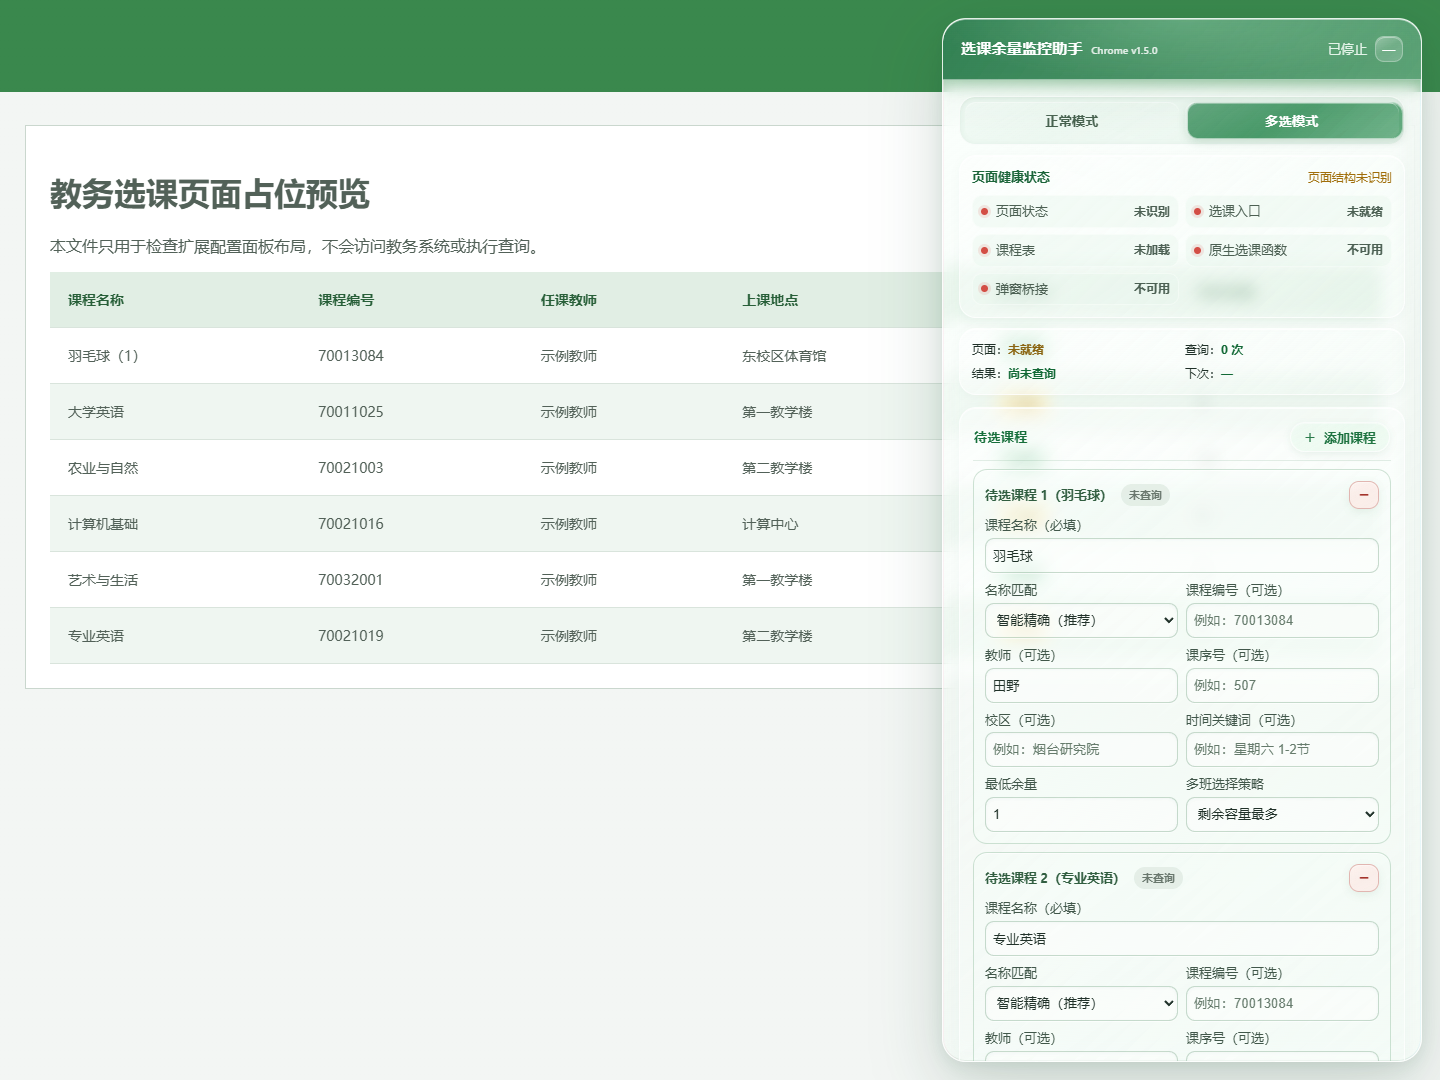
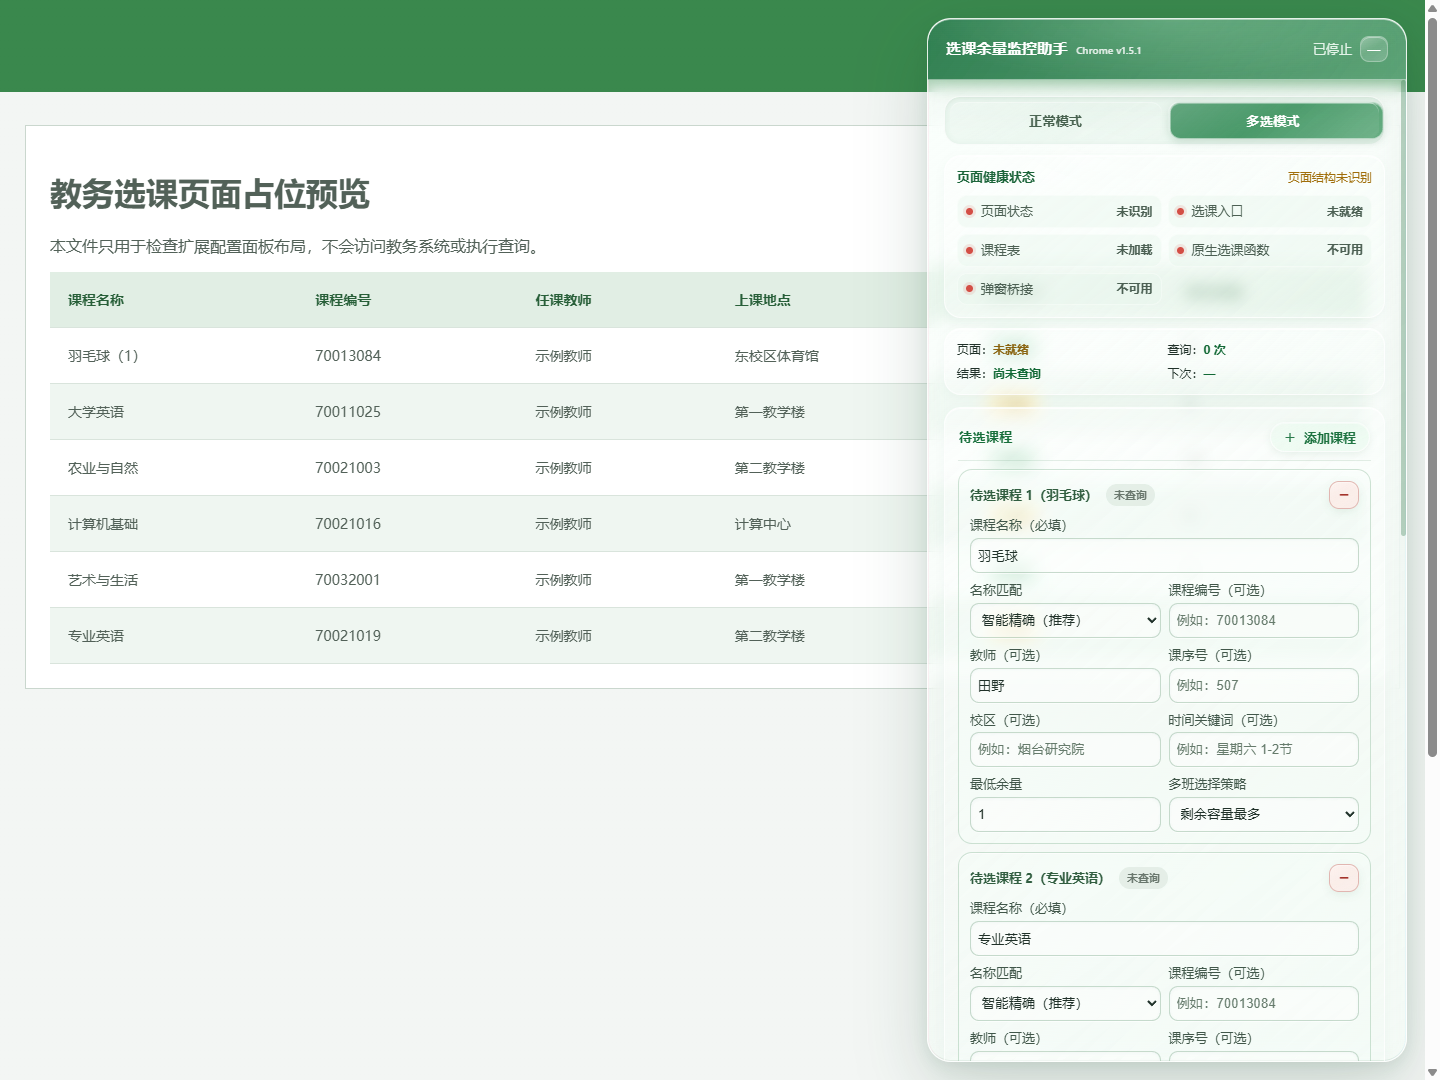
fix: keep panel scrollbar below the glass header v1.5.1

diff --git a/userscript/cau-course-watcher.user.js b/userscript/cau-course-watcher.user.js
@@ -1,7 +1,7 @@
 // ==UserScript==
 // @name         中国农业大学教务选课余量监控助手
 // @namespace    local.cau.course-watcher
-// @version      1.5.0
+// @version      1.5.1
 // @description  支持单课程或最多四门课程轮询，发现余量后使用页面原生流程选课。
 // @author       apshiap05
 // @license      Apache-2.0
@@ -452,12 +452,11 @@
   animation: cau-glass-arrive .55s cubic-bezier(.2,.75,.25,1) both;
 }
 #cau-course-watcher-panel {
-  width: 480px; scrollbar-width: thin; scrollbar-color: rgba(46,119,71,.32) transparent;
-  color: #203129; overscroll-behavior: contain; scroll-padding-top: 76px;
+  display: flex; flex-direction: column; overflow: hidden;
+  width: 480px; color: #203129;
 }
-#cau-course-watcher-panel::-webkit-scrollbar { width: 5px; }
-#cau-course-watcher-panel::-webkit-scrollbar-thumb { background: rgba(46,119,71,.32); border-radius: 9px; }
 #cau-course-watcher-panel .cau-cw-header {
+  position: relative; top: auto; flex-shrink: 0;
   padding: 17px 18px; border-radius: 23px 23px 0 0;
   background: radial-gradient(ellipse at var(--glass-x) 0, rgba(207,255,217,.2), transparent 75%),
     linear-gradient(125deg, rgba(31,116,67,.9), rgba(52,138,85,.7));
@@ -467,7 +466,17 @@
 }
 #cau-course-watcher-panel .cau-cw-title { letter-spacing: .015em; }
 #cau-course-watcher-panel .cau-cw-title small { font-size: 10px; font-weight: 500; opacity: .85; }
-#cau-course-watcher-panel .cau-cw-body { padding: 16px; }
+#cau-course-watcher-panel .cau-cw-body {
+  min-height: 0; overflow-x: hidden; overflow-y: auto; padding: 16px;
+  overscroll-behavior: contain; scroll-padding-top: 16px;
+  scrollbar-width: thin; scrollbar-color: rgba(46,119,71,.32) transparent;
+}
+#cau-course-watcher-panel .cau-cw-body::-webkit-scrollbar { width: 5px; }
+#cau-course-watcher-panel .cau-cw-body::-webkit-scrollbar-thumb { background: rgba(46,119,71,.32); border-radius: 9px; }
+#cau-course-watcher-panel .cau-cw-body::-webkit-scrollbar-button { display: none; height: 0; }
+@supports selector(::-webkit-scrollbar) {
+  #cau-course-watcher-panel .cau-cw-body { scrollbar-width: auto; scrollbar-color: auto; }
+}
 #cau-course-watcher-panel .cau-cw-tabs {
   position: relative; isolation: isolate; gap: 6px; padding: 5px; border-radius: 16px;
   background: rgba(213,235,220,.35); border: 1px solid rgba(255,255,255,.7);
@@ -586,7 +595,7 @@
 @keyframes cau-glass-toast { from { opacity: 0; translate: 0 -8px; } to { opacity: 1; translate: 0 0; } }
 @keyframes cau-glass-ripple { to { transform: scale(24); opacity: 0; } }
 @media (max-width: 720px) {
-  #cau-course-watcher-panel { width: calc(100vw - 16px); border-radius: 20px; }
+  #cau-course-watcher-panel { left: 8px; right: 8px; width: auto; border-radius: 20px; }
   #cau-course-watcher-panel .cau-cw-header { padding: 13px; border-radius: 19px 19px 0 0; }
   #cau-course-watcher-panel .cau-cw-body { padding: 10px; }
   #cau-course-watcher-panel .cau-cw-title { font-size: 13px; }
@@ -851,7 +860,7 @@
     panel.id = `${SCRIPT_ID}-panel`;
     panel.innerHTML = `
       <div class="cau-cw-header">
-        <div class="cau-cw-title">选课余量监控助手 <small>v1.5.0</small></div>
+        <div class="cau-cw-title">选课余量监控助手 <small>v1.5.1</small></div>
         <span id="cau-cw-run-state" class="cau-cw-paused">已停止</span>
         <button id="cau-cw-collapse" class="cau-cw-icon-btn" title="收起/展开">—</button>
       </div>

diff --git a/chrome-extension/content.js b/chrome-extension/content.js
@@ -462,12 +462,11 @@
   animation: cau-glass-arrive .55s cubic-bezier(.2,.75,.25,1) both;
 }
 #cau-course-watcher-panel {
-  width: 480px; scrollbar-width: thin; scrollbar-color: rgba(46,119,71,.32) transparent;
-  color: #203129; overscroll-behavior: contain; scroll-padding-top: 76px;
+  display: flex; flex-direction: column; overflow: hidden;
+  width: 480px; color: #203129;
 }
-#cau-course-watcher-panel::-webkit-scrollbar { width: 5px; }
-#cau-course-watcher-panel::-webkit-scrollbar-thumb { background: rgba(46,119,71,.32); border-radius: 9px; }
 #cau-course-watcher-panel .cau-cw-header {
+  position: relative; top: auto; flex-shrink: 0;
   padding: 17px 18px; border-radius: 23px 23px 0 0;
   background: radial-gradient(ellipse at var(--glass-x) 0, rgba(207,255,217,.2), transparent 75%),
     linear-gradient(125deg, rgba(31,116,67,.9), rgba(52,138,85,.7));
@@ -477,7 +476,17 @@
 }
 #cau-course-watcher-panel .cau-cw-title { letter-spacing: .015em; }
 #cau-course-watcher-panel .cau-cw-title small { font-size: 10px; font-weight: 500; opacity: .85; }
-#cau-course-watcher-panel .cau-cw-body { padding: 16px; }
+#cau-course-watcher-panel .cau-cw-body {
+  min-height: 0; overflow-x: hidden; overflow-y: auto; padding: 16px;
+  overscroll-behavior: contain; scroll-padding-top: 16px;
+  scrollbar-width: thin; scrollbar-color: rgba(46,119,71,.32) transparent;
+}
+#cau-course-watcher-panel .cau-cw-body::-webkit-scrollbar { width: 5px; }
+#cau-course-watcher-panel .cau-cw-body::-webkit-scrollbar-thumb { background: rgba(46,119,71,.32); border-radius: 9px; }
+#cau-course-watcher-panel .cau-cw-body::-webkit-scrollbar-button { display: none; height: 0; }
+@supports selector(::-webkit-scrollbar) {
+  #cau-course-watcher-panel .cau-cw-body { scrollbar-width: auto; scrollbar-color: auto; }
+}
 #cau-course-watcher-panel .cau-cw-tabs {
   position: relative; isolation: isolate; gap: 6px; padding: 5px; border-radius: 16px;
   background: rgba(213,235,220,.35); border: 1px solid rgba(255,255,255,.7);
@@ -596,7 +605,7 @@
 @keyframes cau-glass-toast { from { opacity: 0; translate: 0 -8px; } to { opacity: 1; translate: 0 0; } }
 @keyframes cau-glass-ripple { to { transform: scale(24); opacity: 0; } }
 @media (max-width: 720px) {
-  #cau-course-watcher-panel { width: calc(100vw - 16px); border-radius: 20px; }
+  #cau-course-watcher-panel { left: 8px; right: 8px; width: auto; border-radius: 20px; }
   #cau-course-watcher-panel .cau-cw-header { padding: 13px; border-radius: 19px 19px 0 0; }
   #cau-course-watcher-panel .cau-cw-body { padding: 10px; }
   #cau-course-watcher-panel .cau-cw-title { font-size: 13px; }
@@ -861,7 +870,7 @@
     panel.id = `${SCRIPT_ID}-panel`;
     panel.innerHTML = `
       <div class="cau-cw-header">
-        <div class="cau-cw-title">选课余量监控助手 <small>Chrome v1.5.0</small></div>
+        <div class="cau-cw-title">选课余量监控助手 <small>Chrome v1.5.1</small></div>
         <span id="cau-cw-run-state" class="cau-cw-paused">已停止</span>
         <button id="cau-cw-collapse" class="cau-cw-icon-btn" title="收起/展开">—</button>
       </div>

diff --git a/ui/liquid-glass.css b/ui/liquid-glass.css
@@ -15,12 +15,11 @@
   animation: cau-glass-arrive .55s cubic-bezier(.2,.75,.25,1) both;
 }
 #cau-course-watcher-panel {
-  width: 480px; scrollbar-width: thin; scrollbar-color: rgba(46,119,71,.32) transparent;
-  color: #203129; overscroll-behavior: contain; scroll-padding-top: 76px;
+  display: flex; flex-direction: column; overflow: hidden;
+  width: 480px; color: #203129;
 }
-#cau-course-watcher-panel::-webkit-scrollbar { width: 5px; }
-#cau-course-watcher-panel::-webkit-scrollbar-thumb { background: rgba(46,119,71,.32); border-radius: 9px; }
 #cau-course-watcher-panel .cau-cw-header {
+  position: relative; top: auto; flex-shrink: 0;
   padding: 17px 18px; border-radius: 23px 23px 0 0;
   background: radial-gradient(ellipse at var(--glass-x) 0, rgba(207,255,217,.2), transparent 75%),
     linear-gradient(125deg, rgba(31,116,67,.9), rgba(52,138,85,.7));
@@ -30,7 +29,17 @@
 }
 #cau-course-watcher-panel .cau-cw-title { letter-spacing: .015em; }
 #cau-course-watcher-panel .cau-cw-title small { font-size: 10px; font-weight: 500; opacity: .85; }
-#cau-course-watcher-panel .cau-cw-body { padding: 16px; }
+#cau-course-watcher-panel .cau-cw-body {
+  min-height: 0; overflow-x: hidden; overflow-y: auto; padding: 16px;
+  overscroll-behavior: contain; scroll-padding-top: 16px;
+  scrollbar-width: thin; scrollbar-color: rgba(46,119,71,.32) transparent;
+}
+#cau-course-watcher-panel .cau-cw-body::-webkit-scrollbar { width: 5px; }
+#cau-course-watcher-panel .cau-cw-body::-webkit-scrollbar-thumb { background: rgba(46,119,71,.32); border-radius: 9px; }
+#cau-course-watcher-panel .cau-cw-body::-webkit-scrollbar-button { display: none; height: 0; }
+@supports selector(::-webkit-scrollbar) {
+  #cau-course-watcher-panel .cau-cw-body { scrollbar-width: auto; scrollbar-color: auto; }
+}
 #cau-course-watcher-panel .cau-cw-tabs {
   position: relative; isolation: isolate; gap: 6px; padding: 5px; border-radius: 16px;
   background: rgba(213,235,220,.35); border: 1px solid rgba(255,255,255,.7);
@@ -149,7 +158,7 @@
 @keyframes cau-glass-toast { from { opacity: 0; translate: 0 -8px; } to { opacity: 1; translate: 0 0; } }
 @keyframes cau-glass-ripple { to { transform: scale(24); opacity: 0; } }
 @media (max-width: 720px) {
-  #cau-course-watcher-panel { width: calc(100vw - 16px); border-radius: 20px; }
+  #cau-course-watcher-panel { left: 8px; right: 8px; width: auto; border-radius: 20px; }
   #cau-course-watcher-panel .cau-cw-header { padding: 13px; border-radius: 19px 19px 0 0; }
   #cau-course-watcher-panel .cau-cw-body { padding: 10px; }
   #cau-course-watcher-panel .cau-cw-title { font-size: 13px; }

diff --git a/chrome-extension/popup.html b/chrome-extension/popup.html
@@ -11,7 +11,7 @@
       <div class="badge">CAU</div>
       <div>
         <h1>选课余量监控助手</h1>
-        <p class="version">Chrome 扩展 v1.5.0</p>
+        <p class="version">Chrome 扩展 v1.5.1</p>
       </div>
       <p>请先正常登录教务系统，再进入任意选课页面。配置面板会自动识别页面状态并显示在右侧。</p>
       <button id="open-page" type="button">打开教务选课页面</button>

diff --git a/README.md b/README.md
@@ -16,14 +16,14 @@
 
 | 版本 | 适合场景 |
 | --- | --- |
-| Chrome 扩展 v1.5.0 | 只使用 Google Chrome，希望不依赖 Tampermonkey |
-| Tampermonkey 脚本 v1.5.0 | 使用 Chrome、Edge、Firefox，或已经安装 Tampermonkey |
+| Chrome 扩展 v1.5.1 | 只使用 Google Chrome，希望不依赖 Tampermonkey |
+| Tampermonkey 脚本 v1.5.1 | 使用 Chrome、Edge、Firefox，或已经安装 Tampermonkey |
 
 两个版本具备相同的核心能力。
 
 
 
-## 液态玻璃界面（v1.5.0）
+## 液态玻璃界面（v1.5.1）
 
 配置面板、课程卡片、输入控件、确认窗和提示采用统一的液态玻璃材质，保留绿色主色、黄色授权区与红色停止按钮。网页内面板可透出背后的真实教务页面，Chrome/Edge 提供轻量边缘折射，其他浏览器使用透明毛玻璃。鼠标移动带动反光，按钮提供轻微磁吸、按压和涟漪，模式切换使用弹性滑动。支持系统“减少动态效果”和“减少透明度”设置；触屏保留常规点击。
 
@@ -48,7 +48,7 @@
 
 ### Google Chrome 扩展
 
-使用“加载已解压的扩展程序”，或从 [最新 Release](https://github.com/apshiap05/cau_course_watcher/releases/latest) 下载与当前版本对应的压缩包。下载后请确认 `manifest.json` 的版本为 `1.5.0`；旧 Release 不会自动包含 `main` 分支的后续更新。
+使用“加载已解压的扩展程序”，或从 [最新 Release](https://github.com/apshiap05/cau_course_watcher/releases/latest) 下载与当前版本对应的压缩包。下载后请确认 `manifest.json` 的版本为 `1.5.1`；旧 Release 不会自动包含 `main` 分支的后续更新。
 
 ### Tampermonkey 脚本
 

diff --git a/userscript/README.md b/userscript/README.md
@@ -3,7 +3,7 @@
 文件：[`cau-course-watcher.user.js`](./cau-course-watcher.user.js)
 
 
-## 液态玻璃界面（v1.5.0）
+## 液态玻璃界面（v1.5.1）
 
 配置面板、课程卡片、输入控件、确认窗和提示采用统一的液态玻璃材质，保留绿色主色、黄色授权区与红色停止按钮。网页内面板可透出背后的真实教务页面，Chrome/Edge 提供轻量边缘折射，其他浏览器使用透明毛玻璃。鼠标移动带动反光，按钮提供轻微磁吸、按压和涟漪，模式切换使用弹性滑动。支持系统“减少动态效果”和“减少透明度”设置；触屏保留常规点击。
 
@@ -13,7 +13,7 @@
 2. 打开 [Raw 脚本地址](https://raw.githubusercontent.com/apshiap05/cau_course_watcher/main/userscript/cau-course-watcher.user.js)。如果 Tampermonkey 显示安装页，检查脚本名称和匹配域名后安装。
 3. 如果浏览器只显示源码，就复制全部内容，在 Tampermonkey 中选择“添加新脚本”，替换示例内容并保存。
 4. 登录中国农业大学教务系统，进入选课页面并刷新。
-5. 页面右侧应显示“选课余量监控助手 v1.5.0”。脚本匹配 `/jsxsd/xsxk` 本身及其下任意路径，不依赖固定选课批次参数。
+5. 页面右侧应显示“选课余量监控助手 v1.5.1”。脚本匹配 `/jsxsd/xsxk` 本身及其下任意路径，不依赖固定选课批次参数。
 
 更新时可以重新打开 Raw 地址；脚本元数据也包含同一地址作为 `@updateURL` 和 `@downloadURL`。
 

diff --git a/chrome-extension/README.md b/chrome-extension/README.md
@@ -3,7 +3,7 @@
 这是一个仅作用于 `https://newjw.cau.edu.cn` 指定选课页面的 Manifest V3 扩展。它不会保存账号、密码或 Cookie，只会在 Chrome 扩展存储中保存课程监控配置。
 
 
-## 液态玻璃界面（v1.5.0）
+## 液态玻璃界面（v1.5.1）
 
 配置面板、课程卡片、输入控件、确认窗和提示采用统一的液态玻璃材质，保留绿色主色、黄色授权区与红色停止按钮。网页内面板可透出背后的真实教务页面，Chrome/Edge 提供轻量边缘折射，其他浏览器使用透明毛玻璃。鼠标移动带动反光，按钮提供轻微磁吸、按压和涟漪，模式切换使用弹性滑动。支持系统“减少动态效果”和“减少透明度”设置；触屏保留常规点击。
 

diff --git a/CHANGELOG.md b/CHANGELOG.md
@@ -2,6 +2,11 @@
 
 本项目从 `v1.3.0` 开始统一 Chrome 扩展、Tampermonkey 用户脚本和 GitHub Release 的版本号。
 
+## v1.5.1 — 2026-10-21
+
+- 将面板滚动区域限定到绿色标头下方的内容区，消除滚动条挤占标题栏右侧与圆角的问题。
+- 保持标题栏完整固定，内容区独立滚动，并隐藏滚动条两端的箭头。
+
 ## v1.5.0 — 2026-10-21
 
 - 全界面升级液态玻璃材质，覆盖面板、课程卡片、表单、启动确认窗、提示和扩展弹出页，保留原有绿色、黄色与红色语义配色。
